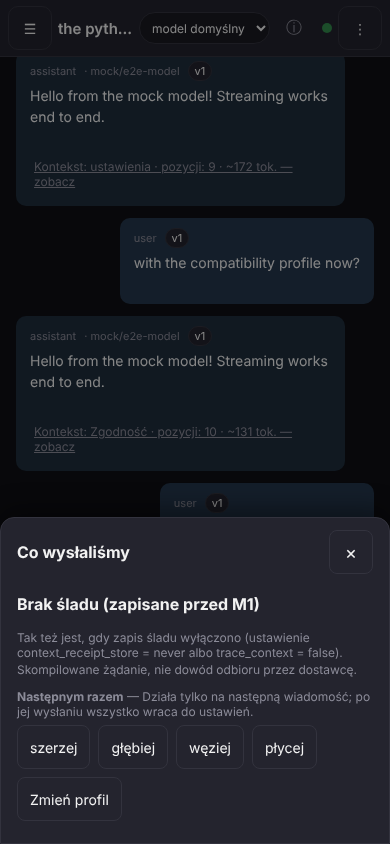
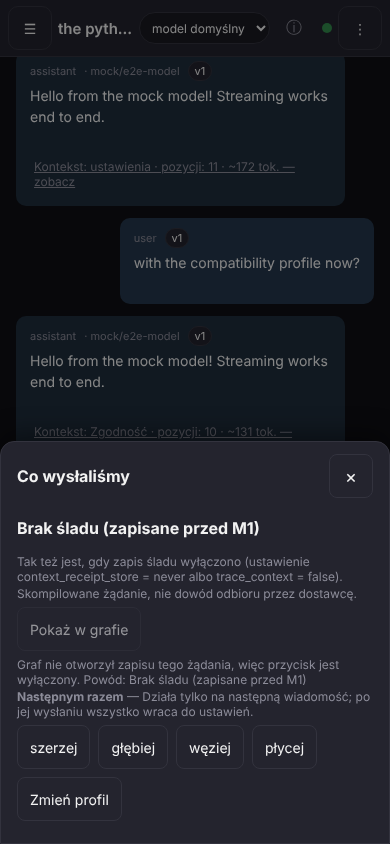
M1-K1c3b (3): report M1_CHECKPOINT_1 refreshed (one number with a named base, the estimate/guard cause, Pokaz w grafie works, new section 9 with four screenshots, re-shot sheet screenshots) and INDEX entry S1 / M1-K1c3b (cause, decisions, how to reverse, what is left)
Claude-Session: https://claude.ai/code/session_015yMVYJqXDd8sNSZdYq3gu5

Changed region(s): [[0.0, 0.5237, 1.0, 0.8318], [0.5846, 0.1848, 0.7077, 0.2156], [0.8923, 0.6469, 0.9231, 0.6777]]

diff --git a/docs/reports/INDEX.md b/docs/reports/INDEX.md
@@ -1807,3 +1807,17 @@ Cel: ślad żądania (perspektywa `sent_to_model`) da się otworzyć w TYM SAMYM
   5. *Budżet pierwszego poziomu to zwykły `navigator_children_limit`* (preset 50, żądanie może podać `limit`; `0` = bez limitu); nic nowego nie wymyślono, zwinięte pozycje są policzone w `counts.collapsed`.
   6. *Słowa to dane* w `chat_ops.pack` (`sent_derived_note`, `sent_tokens_value`, `sent_focus_not_message`, `sent_evidence_record`, `sent_evidence_estimate`, pl+en). `finish` nie nadpisuje już słów dowodu, jeśli węzeł je niesie. Cofnięcie całości: usunąć `receipt_node`/`receipt_edges`/`receipt_summary`/`receipt_of`, gałąź `sent:` w `Catalogue::node`, blok `receipt_*` w `navigate` i `card` (K1c-2 działa bez tego).
 - **Nie zrobione (zostaje).** (a) Słowa metod dowodu `evidence.method.context_receipt` i `evidence.method.token_estimate` w `profiles/conversation_view.pack` NIE zostały dopisane (plik jest osadzony w `onboarding/builtin.inc` i w wygenerowanym `loom/web/src/onboarding/generated/conversation-view.json`, a `loom/web` to K1c-3b): dziś pochodne węzły niosą własne słowa, więc nic nie jest ukryte; ujednolicenie przy K1c-3b. (b) Karta zwykłej wiadomości-żądania nie wylicza jeszcze łączy zapisu (to robi nawigator z perspektywą). (c) Pozostałe parametry czytane przez `perspectives.show`, a niezadeklarowane w katalogu: `id`, `direction`, `key`, `units`. (d) Strona web (przycisk „Pokaż w grafie” → `graph.navigate`) to K1c-3b.
+
+### S1 / M1-K1c3b — „Pokaż w grafie” działa: strona web, e2e i odświeżony raport (2026-10-22, `claude/m1-w0`)
+
+Cel: przycisk „Pokaż w grafie” pod „Co wysłaliśmy” ma działać teraz, gdy jądro rysuje zapis żądania (K1c-2 + K1c-3a). Stan wyjściowy: lokalna bramka K1c-3a zielona, a krok e2e „przycisk wyłączony z powodem” dalej przechodził — czyli w prawdziwym serwerze i przeglądarce przycisk dalej był wyłączony.
+
+- **Przyczyna (zmierzona, nie zgadywana): adres.** Sonda `POST /api/graph/navigate` z dokładnie tym ciałem, które wysyła ekran (`focus:"msg:m_<hex>"`, `perspectives:["sent_to_model"]`, `hops:1`, `limit:1`), na prawdziwym `loom-server` z atrapą modelu dała **404 `not_found`: „no node at 'msg:m_…' in the graph projection”** (też bez `limit`, też dla odpowiedzi). Adres wiadomości w grafie to `msg:<hex>`: `graph_sources.pack` mapuje prefiks bazy `m_` na prefiks adresu `msg:` (test jądra używa `address_of_msg` = `"msg:" + id.substr(2)`). Ten sam zapytanie z `msg:<hex>` daje 200 i zapis. Czyli warstwa błędna to **ekran** (ContextReceipt budował `msg:${requestId}` z id bazy), nie ścieżka HTTP, język ani `limit:1`/`hops:1`; w tej paczce **nie zmieniono kodu jądra ani serwera**. Krok e2e nie odróżniał powodów (sprawdzał tylko, że `data-kernel-answer` jest niepusty), stąd zielona bramka.
+- **Poprawka.** `messageAddress(id)` w `context-receipt-state.ts` (`m_<hex>` → `msg:<hex>`, adres w postaci grafu bez zmian), użyte w sondzie i w dotknięciu; test jednostkowy czyta `graph_sources.pack`, żeby para prefiksów nie rozjechała się z jądrem.
+- **Sonda przycisku jest ostrzejsza.** Odpowiedź włącza przycisk tylko gdy `receipt.present === true`; zapis nieobecny (`present:false`) albo odmowa to powód wyłączonego przycisku. Przycisk jest teraz też pod „Brak śladu (zapisane przed M1)” (wyłączony, z powodem słowami arkusza; zdanie jądra zostaje w `data-kernel-answer`, bo zawiera nazwy ustawień). Dotknięcie **zamyka arkusz** i otwiera nawigator (Wstecz wraca do czatu, po nim nie zostaje żadna warstwa).
+- **Nawigator i karta rysują to, co jądro zwraca dla perspektywy** (`navigator-receipt.ts`, czyste funkcje + test): w wierszu chipy „widok zapisu” (pochodne), „<nazwa łącza z jądra>: N tokenów (szacunek)” (pochodne biorą `value_human` jądra, zwykłe wiadomości liczbę z wagi łącza, słowo z paczki), „pominięte w żądaniu” + powód jądra (`reason_human`), gdy etykieta go nie zawiera; pod listą: skrót „Z tego żądania: wysłane N, pominięte M · razem T tokenów (szacunek)”, zdanie jądra o widoku zapisu (raz, nie przy każdym wierszu), zdanie jądra „to zapis, nie dowód” (`receipt.note`), „z odpowiedzi do jej zapytania” (`handed_from`, tylko gdy odpowiedź niesie zapis); pusta lista z `receipt.present:false` mówi zdaniem jądra (`receipt.text`); karta pochodnego węzła ma chip i zdanie `derived_note` (słowo z paczki tylko gdy jądro go nie przysłało). Nazwa perspektywy pod paskiem jest nazwą, nie id (lista perspektyw jest czytana też wtedy, gdy nawigator otwiera się z perspektywą).
+- **Słowa (pl + en, dane).** `presentation.graph_screen`: `sent.derived`, `sent.derived_note`, `sent.tokens`, `sent.summary`, `sent.total`, `sent.handed_from`, `chip.record` (warstwa „record” pokazywała surowy `chip.record`). `presentation.context_receipt`: `action.show_in_graph.disabled` **przepisane** (stare zdanie „jądro jeszcze nie rysuje…” było już nieprawdziwe), `action.show_in_graph.no_navigator`, `chip.message.graph` (K1c-2 zostawił w arkuszu surowe `message:graph`). Regenerowano `builtin.inc` (jawne długości, `clang_inc_check` bez zmian) i `generated/conversation-view.json`; nie dopisano `evidence.method.context_receipt` / `token_estimate` — web pokazuje `evidence.human` z jądra, więc drugie źródło tego samego zdania byłoby powieleniem (K1c-3a (a) zamknięte tą decyzją).
+- **e2e (`m1-context-sent-native.mjs`).** Krok „przycisk wyłączony” zastąpiono prawdziwym przepływem; oczekiwania pochodzą z odpowiedzi jądra na to samo pytanie albo z paczki, nigdzie z literału: przycisk włączony bez linii powodu → dotknięcie → nawigator na `msg:<hex>` z `data-perspectives="sent_to_model"` → wiersze = wiersze jądra w jego kolejności, tokeny = waga łącza, znaczniki „widok zapisu”, skrót, zdania jądra → karta pochodnego (zdanie i „Wartość: … (szacunek)”) → Wstecz; w kroku „Zgodność”: pominięty element jest wierszem z „pominięte w żądaniu” i powodem; negatywy: „Brak śladu” z wyłączonym przyciskiem i powodem oraz **sfałszowana odmowa grafu** (`page.route` → 404: prawdziwe jądro odpowiada na każdą wiadomość z zapisem, więc inaczej odmowy nie wywołać). Czekanie na warunki (`until`), żadnego odczytu zaraz po dotknięciu.
+- **Wyniki (lokalnie, ten worktree).** `npm run build` ok; testy jednostkowe: context-receipt 14, composer-menu 17, context-strip 12, testids-doc 2, navigator-state 11, node-card-state 11, navigator-map 10, navigator-receipt 7 (nowy, w `loom.yml`), settings-human 7, role-card 5, shell 10, shell-history 13, shell-menu 8, graph-labels 9, graph-entry 5. e2e `m1-context-sent-native` (8 kroków), `m1-context-menu-native` (11), `m1-navigator-native` (14) przeszły **dwa razy z rzędu**, zrzuty do katalogu tymczasowego, `git status` czysty po przebiegu.
+- **Decyzje i cofnięcie.** (1) Naprawa po stronie ekranu, nie „tolerancja” jądra na `msg:m_…`: adres grafu jest prawdą katalogu; cofnięcie: nic do cofania, `messageAddress` jest jedynym miejscem. (2) Dotknięcie zamyka arkusz (inaczej Wstecz z grafu zostawiłby arkusz pod nawigatorem): usunąć `onClose()` w `onClick` przycisku. (3) Zdanie jądra o widoku zapisu raz pod listą, chip „widok zapisu” w każdym wierszu: zmiana w `receiptLines`. (4) Powód pod „Brak śladu” własnymi słowami arkusza (zdanie jądra ma nazwy ustawień): w `ContextReceipt.tsx` zamienić `t("missing")` na `graph.answer`. (5) Pominięty element: chip = nazwa łącza z jądra, powód osobno tylko gdy etykieta go nie mówi. (6) Raport `M1_CHECKPOINT_1.md`: poprawione zdania szacunku i strażnika (K1c-1), punkt „Pokaż w grafie” zamieniony, nowy pkt 9 z czterema zrzutami, odświeżone zrzuty, których tekst się zmienił (arkusz: góra, szerzej ×2, wróć do bazy, Zgodność, brak śladu).
+- **Nie zrobione.** Zdania „po co” przy wierszach pochodnych zapisane po angielsku w chwili wysyłki (jądro) widać po angielsku na polskim ekranie; zdanie pod „Brak śladu” nadal ma nazwy dwóch ustawień; ścieżki `unified`/`knowledge`/`graph_packet` są pozycjami zbiorczymi; arkusz pod odpowiedzią szacuje następne zapytanie dla pustej wiadomości, załączniki i narzędzia nie są liczone; nic z tego nie było na emulatorze Androida (krok dla sterownika dopisany w `M1_W0_TESTIDS.md`); pełna bramka i cały `npm run e2e` nie były uruchamiane tutaj.
